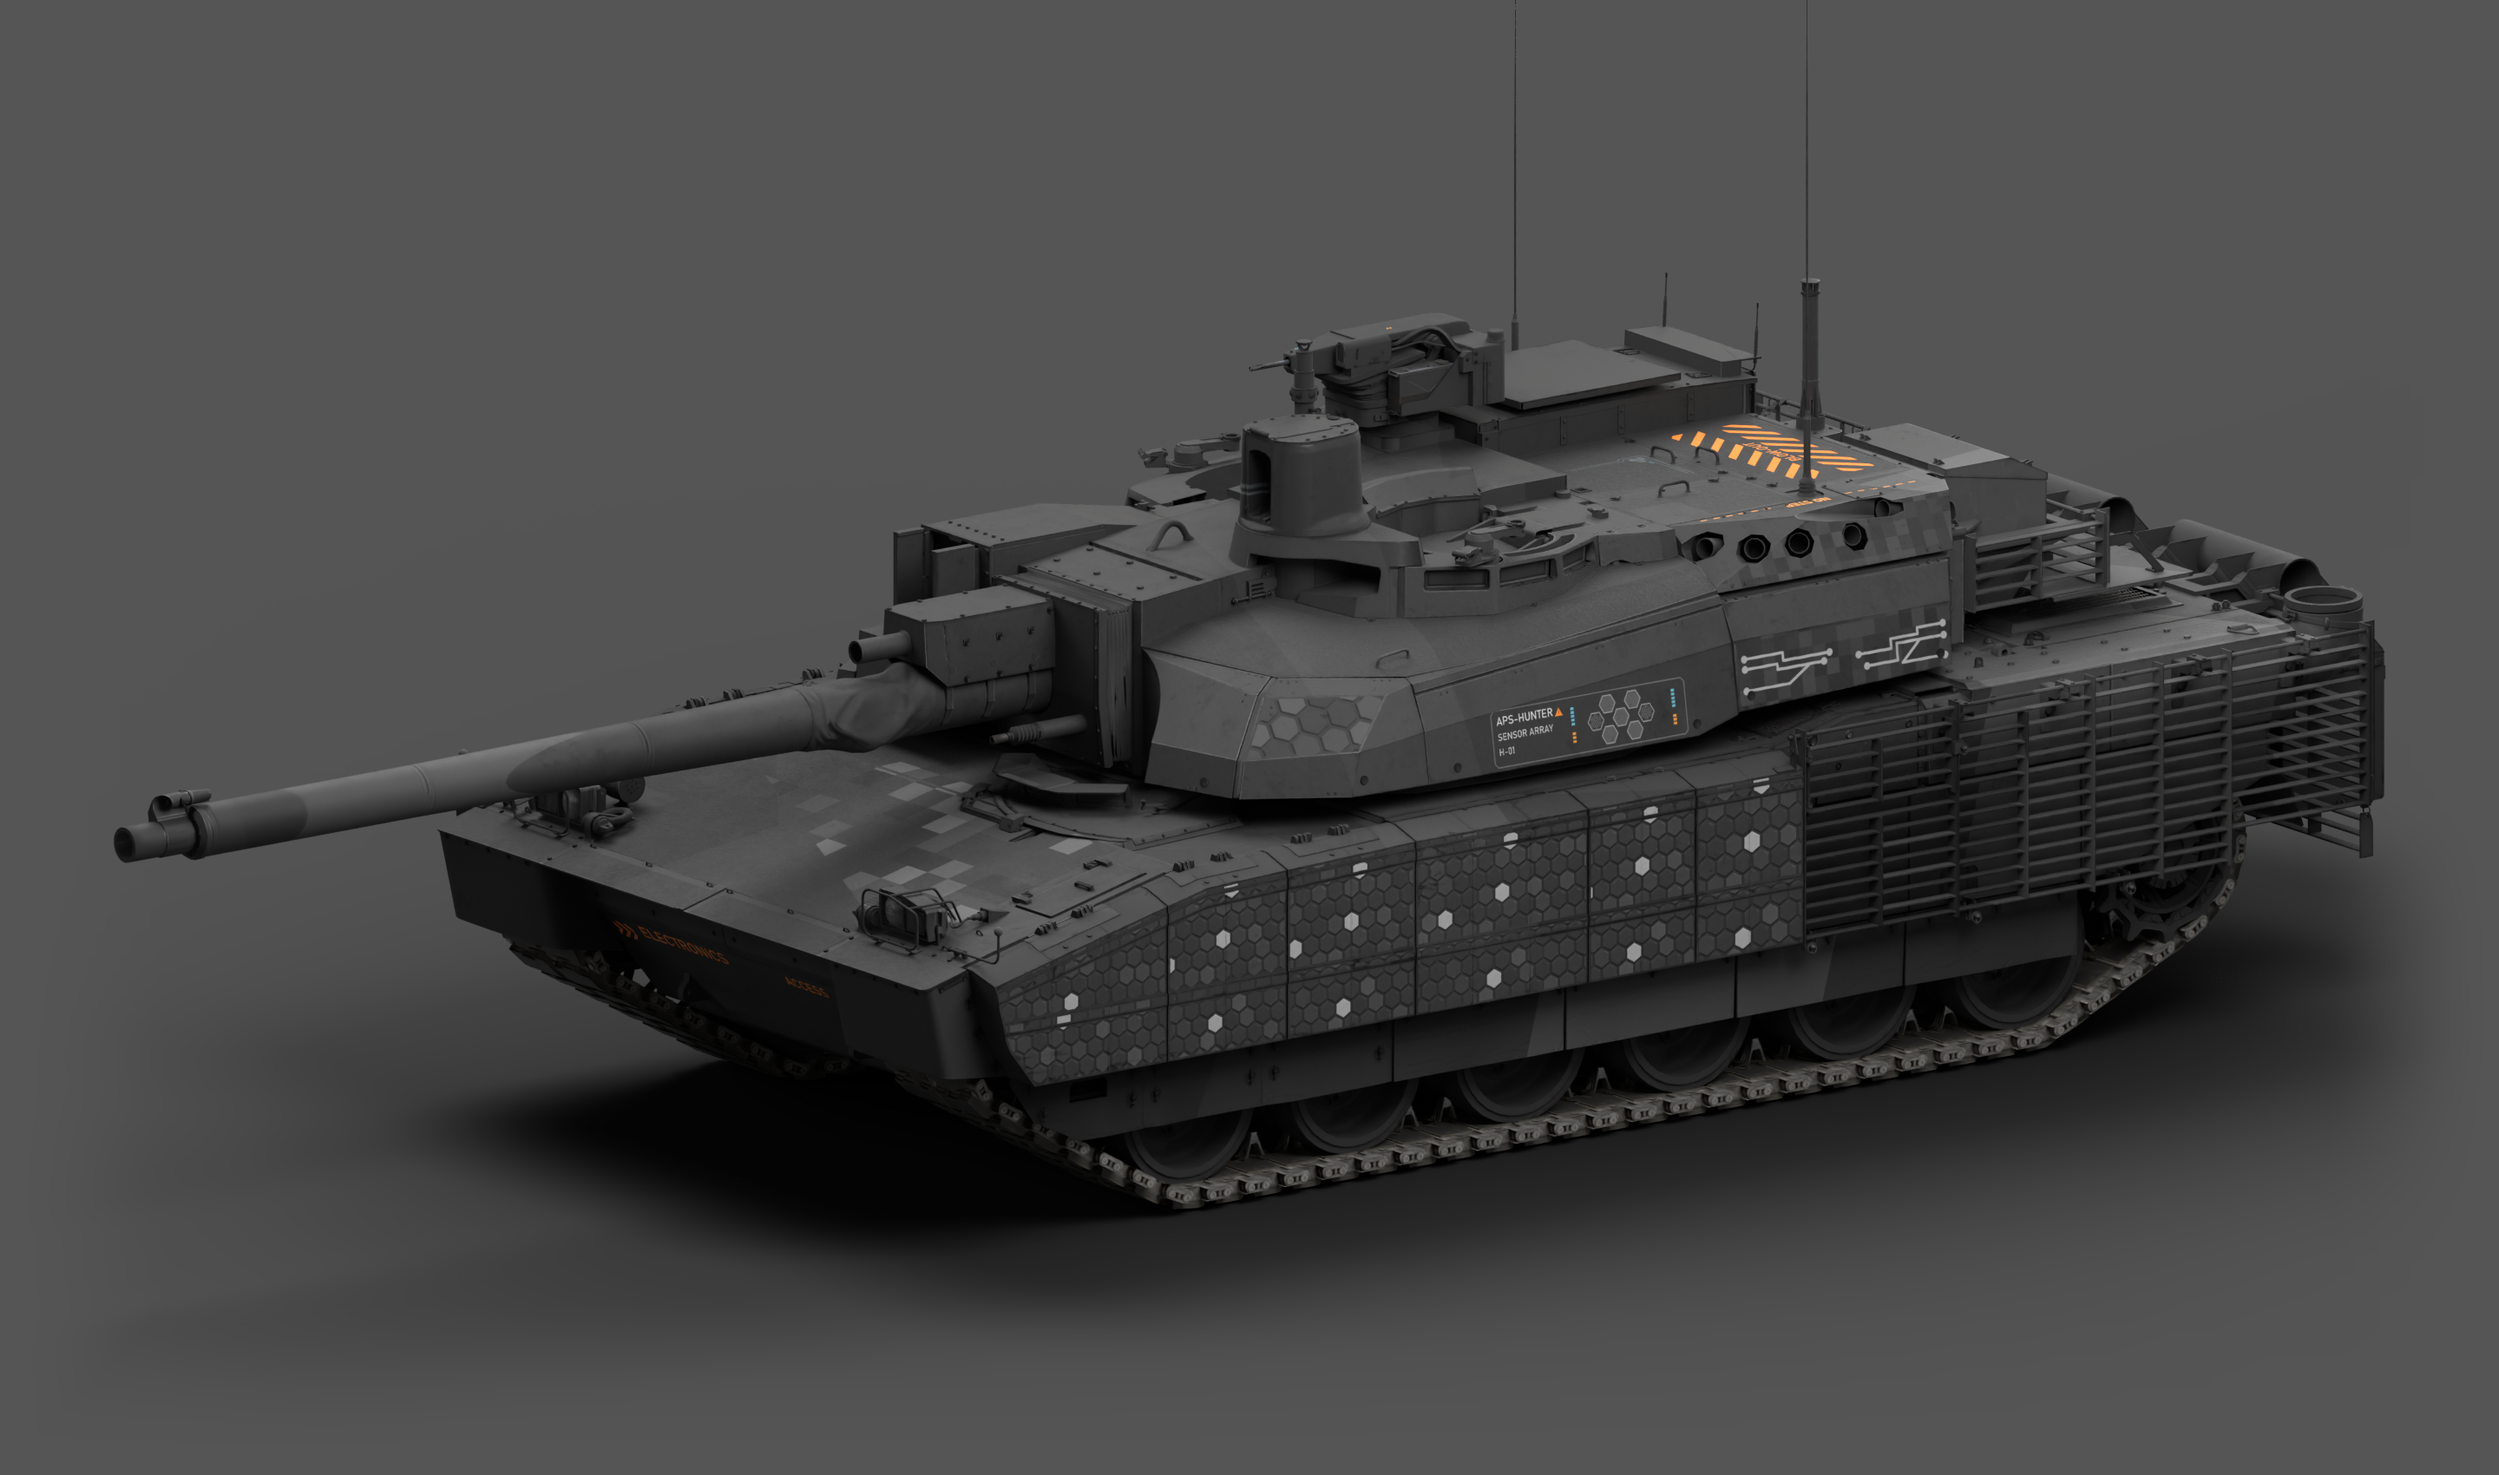
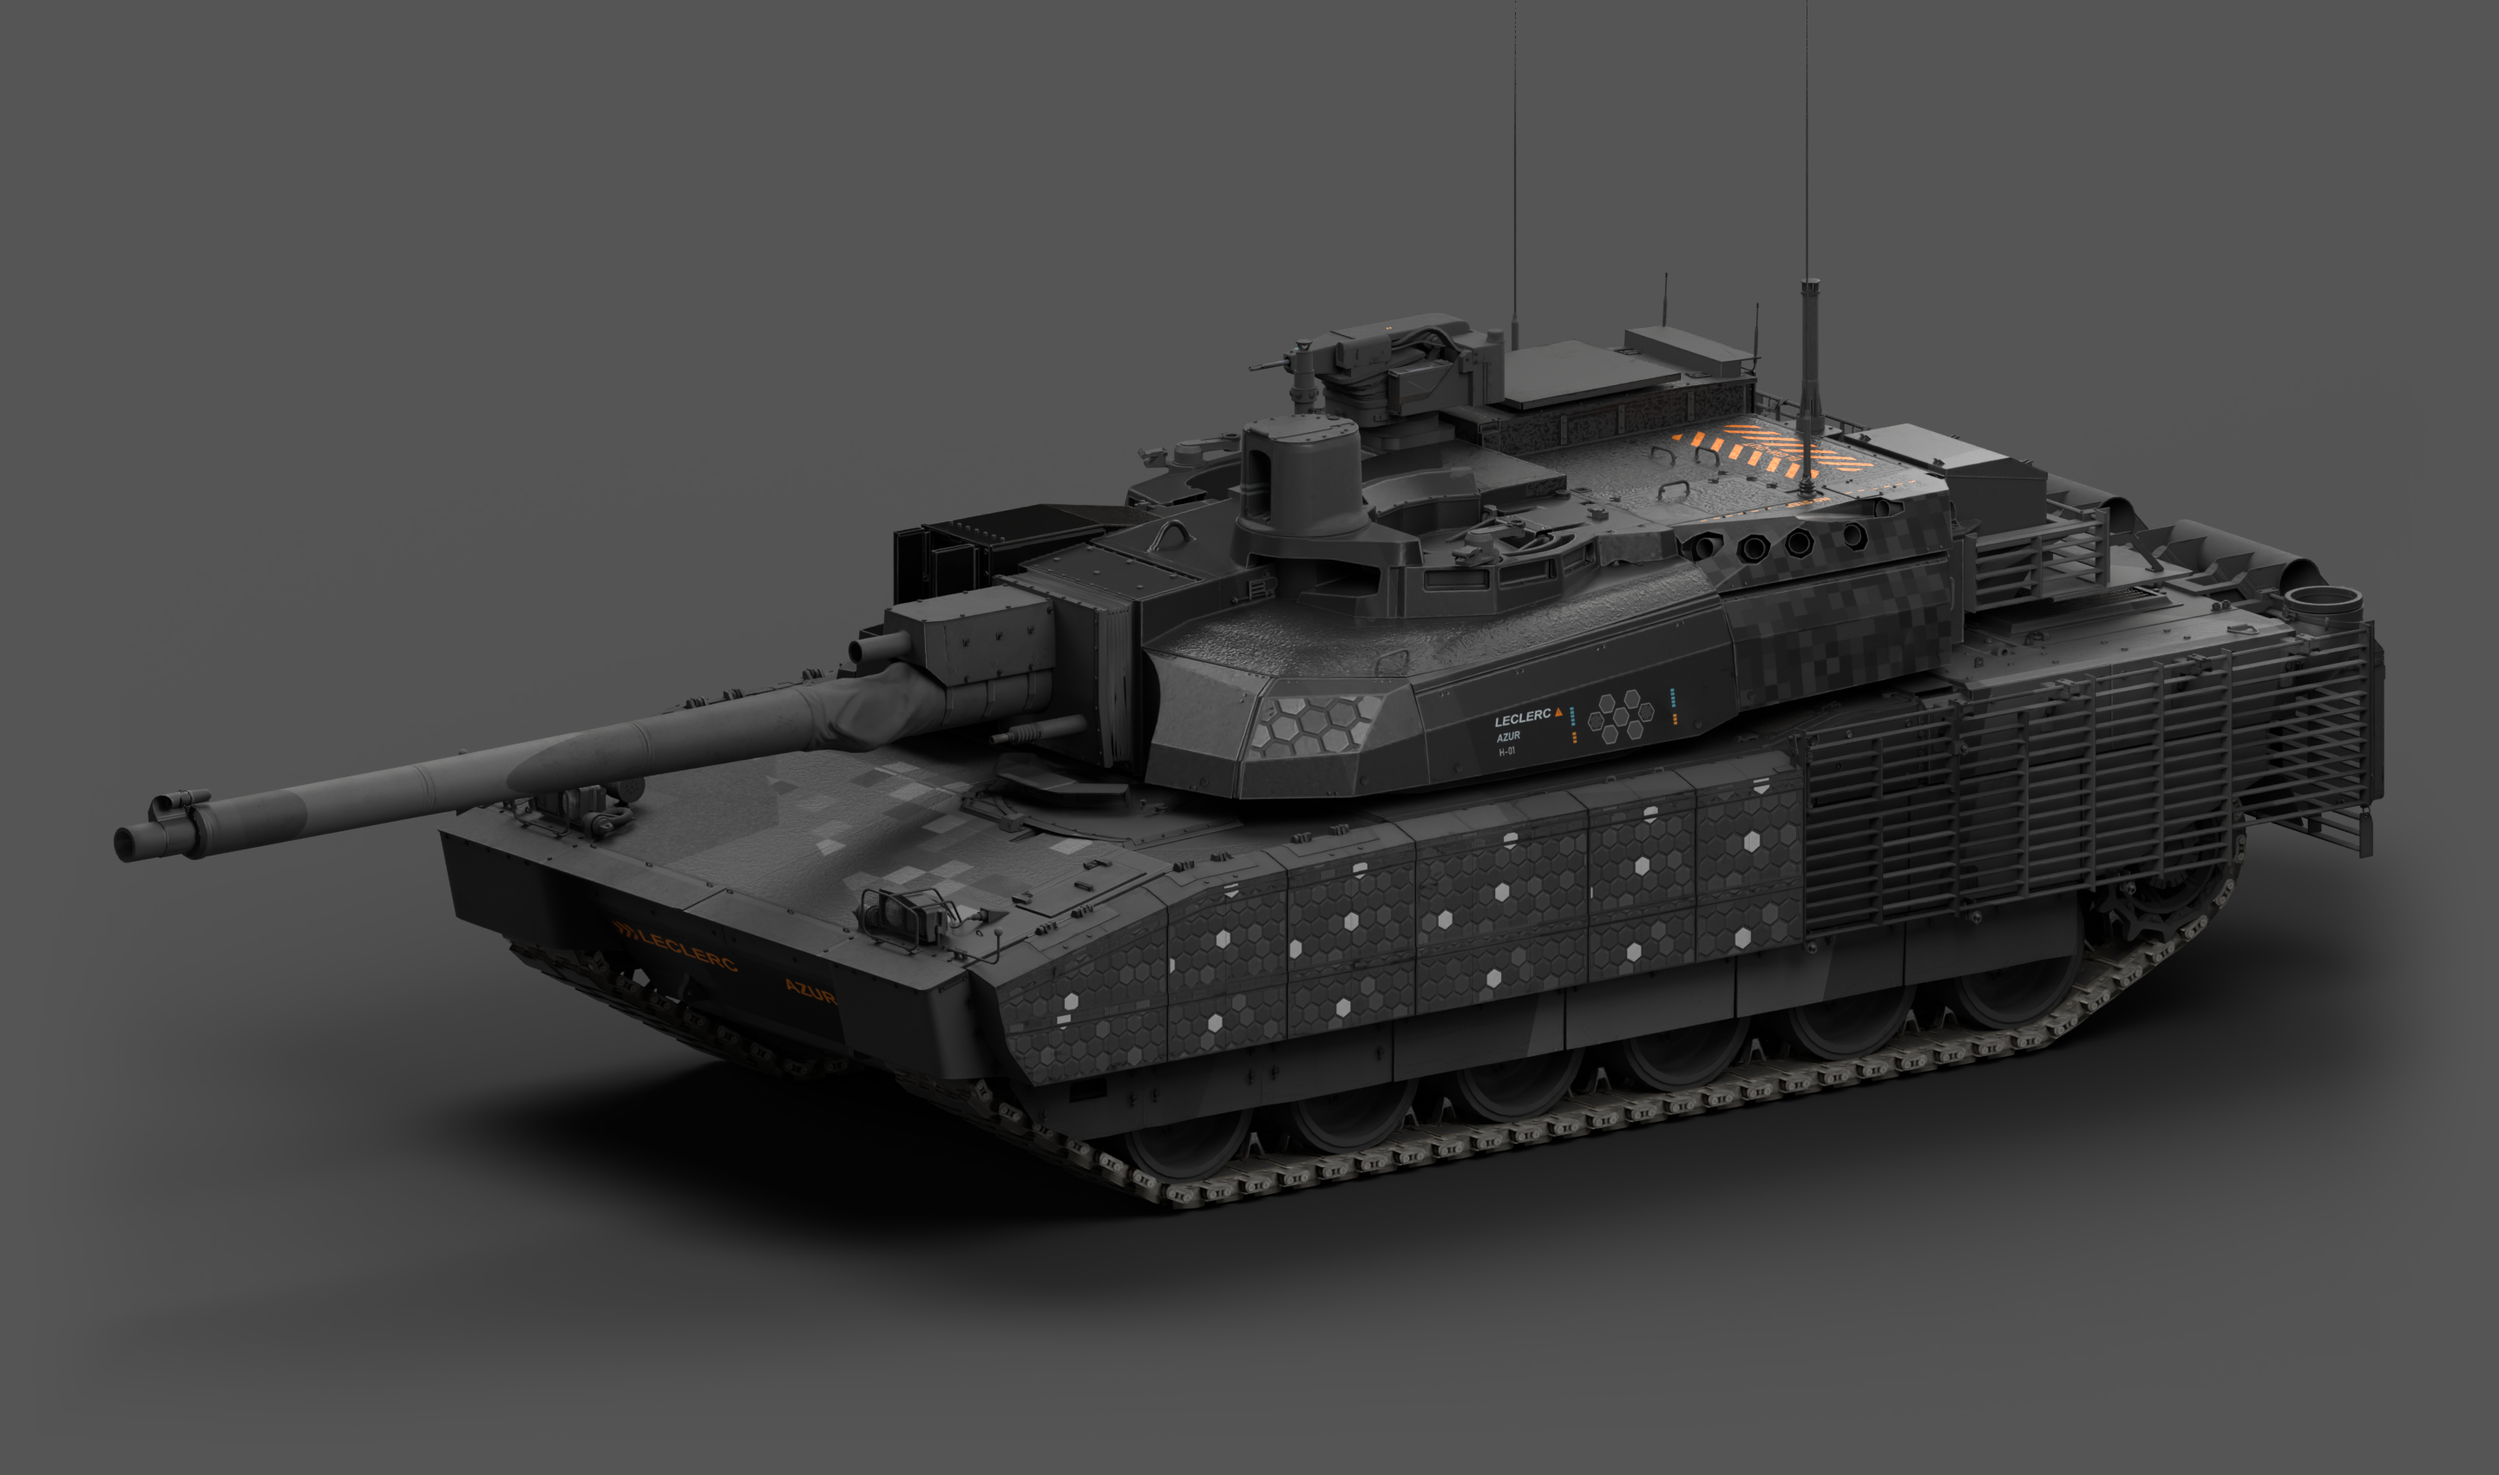
Update Leclerc AZUR graphite metal skin and compact editable source

Changed region(s): [[0.3438, 0.2806, 0.8438, 0.5612], [0.25, 0.6235, 0.2812, 0.6547]]

diff --git a/works/ground/leclerc-azur-spectre42/README.md b/works/ground/leclerc-azur-spectre42/README.md
@@ -1,26 +1,35 @@
 # 勒克莱尔 AZUR · SPECTRE42
 
-炭黑哑光底色、蜂窝装甲模块、仪器线路与克制的黄青色标，按 AZUR 原生表面与 UV 重新组织。遥控武器站外护罩只保留黄青点缀；原车结构、光学窗口与机构分开处理。
+深灰与石墨黑的结构迷彩、五档灰色模块对比块、蜂窝侧装甲和克制的青橙色标。LECLERC 采用低矮宽体的运动字标，AZUR 为次级身份；后部保留橙黑工业警示。
 
-**状态：已认可。**
+车体与炮塔具有磨砂金属光泽，火控壳体以更深的黑色金属形成焦点。玻璃镜片、橡胶和结构细节分别处理；左右侧的上、中间带与狭窄肩部补齐相邻对比块。
 
-![七视图](preview.png)
+**状态：修订中 · 游戏包与源码重建已核验，光学反光仍待游戏视觉确认。**
+
+![当前整车效果](hero-front.png)
 
 ## 下载
 
-- [游戏涂装 ZIP](https://github.com/IcyRyna/war-thunder-liveries/releases/download/works/leclerc-azur-spectre42/v17/leclerc-azur-spectre42-game.zip)
-- [预览与透明素材](https://github.com/IcyRyna/war-thunder-liveries/releases/download/works/leclerc-azur-spectre42/v17/leclerc-azur-spectre42-preview.zip)
-- 可编辑工程与源码保留原 ZIP 字节，以两个分卷提供：[leclerc-azur-spectre42-source.zip.part01](https://github.com/IcyRyna/war-thunder-liveries/releases/download/works/leclerc-azur-spectre42/v17/leclerc-azur-spectre42-source.zip.part01), [leclerc-azur-spectre42-source.zip.part02](https://github.com/IcyRyna/war-thunder-liveries/releases/download/works/leclerc-azur-spectre42/v17/leclerc-azur-spectre42-source.zip.part02)。
-- 下载全部分卷、[校验清单](https://github.com/IcyRyna/war-thunder-liveries/releases/download/works/leclerc-azur-spectre42/v17/source-parts.json)与[合并脚本](https://github.com/IcyRyna/war-thunder-liveries/releases/download/works/leclerc-azur-spectre42/v17/assemble-source.ps1)到同一目录，运行 PowerShell 脚本后得到原源码 ZIP。
+- [游戏涂装 ZIP](https://github.com/IcyRyna/war-thunder-liveries/releases/download/works/leclerc-azur-spectre42/v29/leclerc-azur-spectre42-game.zip)
+- [完整可编辑工程与源码 ZIP](https://github.com/IcyRyna/war-thunder-liveries/releases/download/works/leclerc-azur-spectre42/v29/leclerc-azur-spectre42-source.zip)
+- [当前整车与侧面局部预览](https://github.com/IcyRyna/war-thunder-liveries/releases/download/works/leclerc-azur-spectre42/v29/leclerc-azur-spectre42-preview.zip)
 
-游戏包内是 `Leclerc_AZUR_SPECTRE42` 文件夹，解压至客户端 `UserSkins/`，在 AZUR 自定义涂装中刷新选择。源码包括当前五份 CMPS、原生模型与 UV 检查工程、贴图和制作脚本。
+游戏包约 65 MB，解压约 382 MB，包含运行所需的配置与纹理。源码为独立 ZIP，包括五份 CMPS、完整原生 UV 模型、分层 PNG 与重建脚本，无需合并分卷。
 
-## 整车展示
+## 使用
 
-![斜前](hero-front.png)
+将游戏包内的 `Leclerc_AZUR_SPECTRE42` 文件夹解压至客户端 `UserSkins/`，在 AZUR 用户涂装列表中刷新选择。覆盖旧文件后，切换其他涂装再切回，让客户端重新读取。
 
-![另一侧](hero-opposite.png)
+源码可以按需提取 CMPS 和模型。验证时可直接读取源码 ZIP，逐张生成临时纹理，避免保留完整解压副本：
 
-![顶部](hero-overview.png)
+```powershell
+python -B compact_export.py --source 源码包.zip --verify-only
+```
+
+需要导出游戏文件时，将 `--verify-only` 改为 `--out 新目录`。依赖 Python、Pillow、NumPy、SciPy。全部图层解压后也可使用 `rebuild.py --out 新目录`。
+
+当前页面展示本次整车图与局部图；历史七视图保留于对应历史发布。
+
+![侧面对比块](side-blocks.png)
 
 风格参考：[Fying_ 的 SPECTRE42 / WT Live 1192186](https://live.warthunder.com/post/1192186/en/)。当前作品按 AZUR 原生结构重制。参考、游戏资源和自编代码的许可范围见[仓库许可说明](../../../docs/licensing.md)。

diff --git a/README.md b/README.md
@@ -13,7 +13,7 @@
 
 | 作品 | 状态 | 获取 |
 | --- | --- | --- |
-| [勒克莱尔 AZUR · SPECTRE42](works/ground/leclerc-azur-spectre42/README.md) | 已认可 | [查看下载](https://github.com/IcyRyna/war-thunder-liveries/releases/tag/works/leclerc-azur-spectre42/current) |
+| [勒克莱尔 AZUR · SPECTRE42](works/ground/leclerc-azur-spectre42/README.md) | 修订中 | [查看下载](https://github.com/IcyRyna/war-thunder-liveries/releases/tag/works/leclerc-azur-spectre42/current) |
 | [EMBT · 终末地｜德国／法国](works/ground/embt-endfield/README.md) | 已认可 | [查看下载](https://github.com/IcyRyna/war-thunder-liveries/releases/tag/works/embt-endfield/current) |
 | [豹 2A7HU · 终末地](works/ground/leopard2a7hu-endfield/README.md) | 已认可 | [查看下载](https://github.com/IcyRyna/war-thunder-liveries/releases/tag/works/leopard2a7hu-endfield/current) |
 | [勒克莱尔 AZUR · 终末地「边界测绘」](works/ground/leclerc-azur-endfield/README.md) | 初步成果 · 30分钟一轮直出 | [查看下载](https://github.com/IcyRyna/war-thunder-liveries/releases/tag/works/leclerc-azur-endfield/current) |

diff --git a/works/ground/README.md b/works/ground/README.md
@@ -2,6 +2,7 @@
 
 | 作品 | 状态 | 获取 |
 | --- | --- | --- |
+| [勒克莱尔 AZUR · SPECTRE42](leclerc-azur-spectre42/README.md) | 修订中 | [查看下载](https://github.com/IcyRyna/war-thunder-liveries/releases/tag/works/leclerc-azur-spectre42/current) |
 | [EMBT · 终末地｜德国／法国](../../works/ground/embt-endfield/README.md) | 已认可 | [查看下载](https://github.com/IcyRyna/war-thunder-liveries/releases/tag/works/embt-endfield/current) |
 | [豹 2A7HU · 终末地](../../works/ground/leopard2a7hu-endfield/README.md) | 已认可 | [查看下载](https://github.com/IcyRyna/war-thunder-liveries/releases/tag/works/leopard2a7hu-endfield/current) |
 | [勒克莱尔 AZUR · 终末地「边界测绘」](../../works/ground/leclerc-azur-endfield/README.md) | 初步成果 · 30分钟一轮直出 | [查看下载](https://github.com/IcyRyna/war-thunder-liveries/releases/tag/works/leclerc-azur-endfield/current) |
